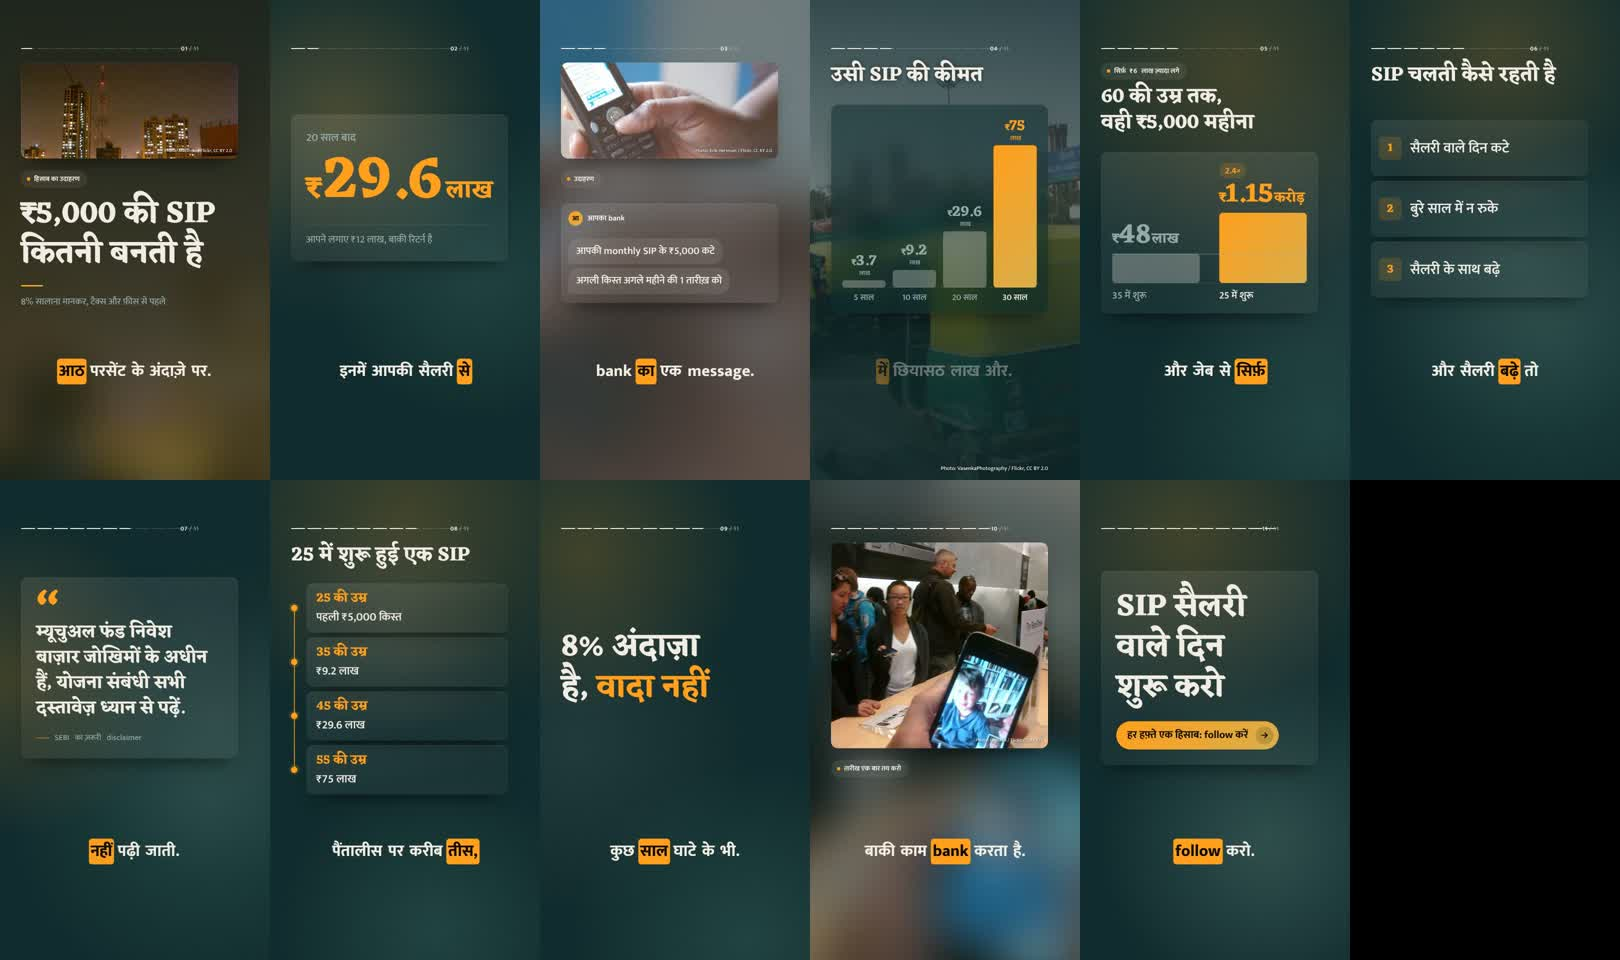
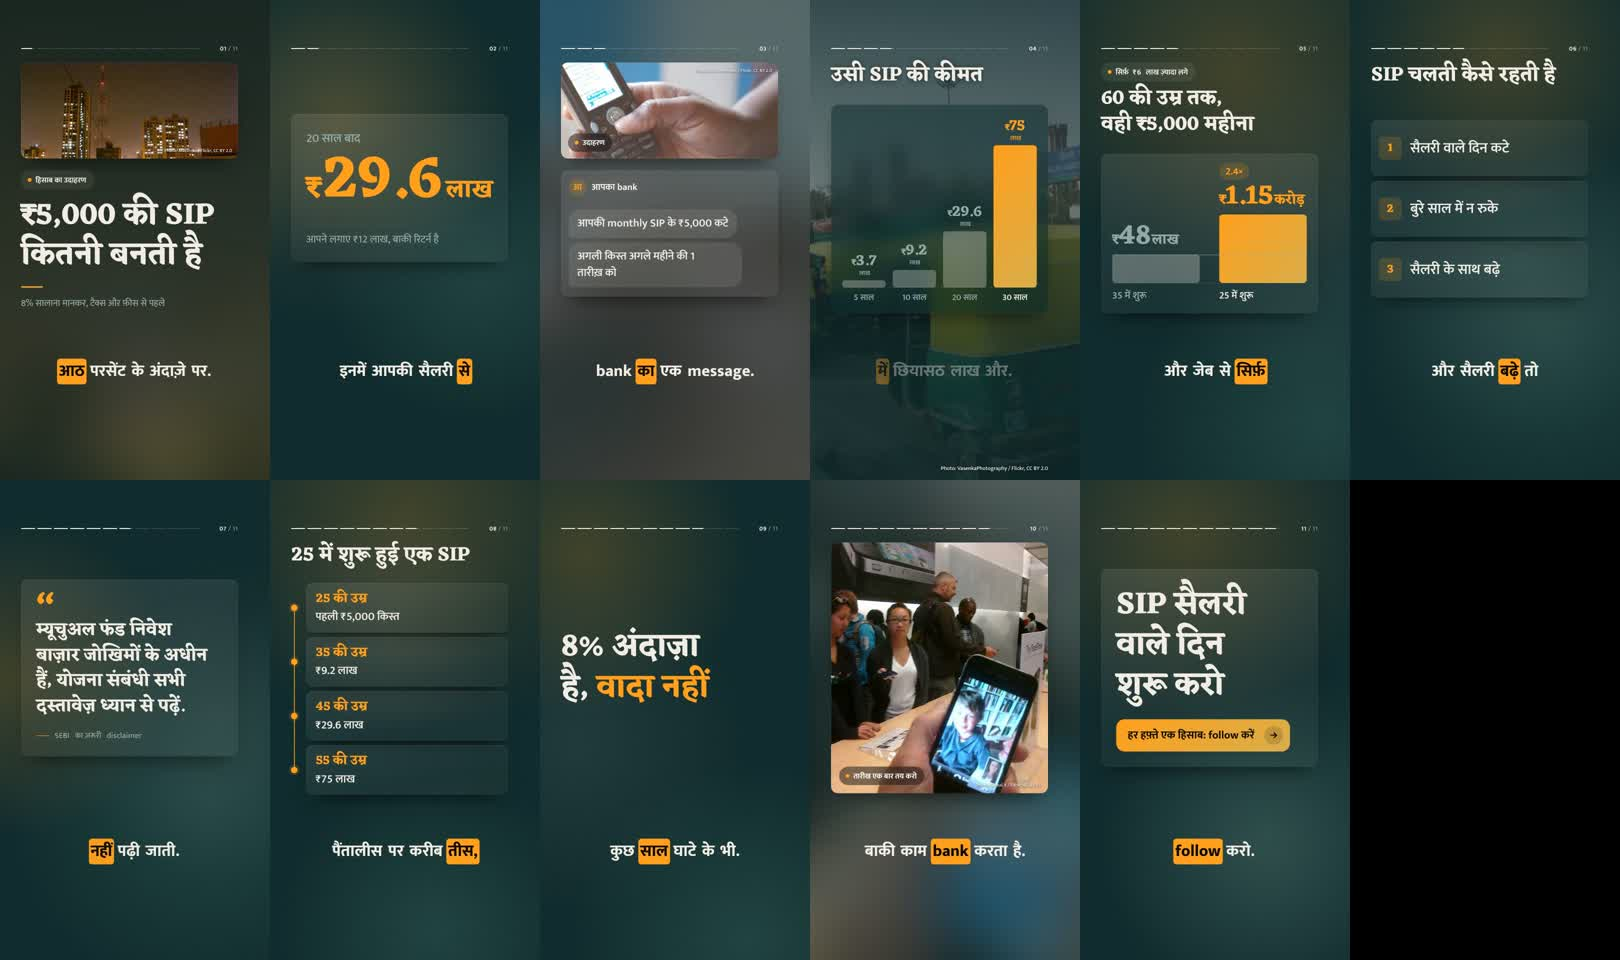
Tighten the glass scenes
- the folio sits past the end of the progress line instead of over it
- photo labels sit on the photo card's corner, so the scene below keeps its
  size; the image scene's photo takes the whole space
- larger text inside cards (labels, message thread, timeline, badges)
- Frost uses Geist for labels and captions too, so one typeface carries it
- the follow button keeps a rounded rectangle when it wraps, not a pill
- message bubbles wrap without orphans; quote mark set smaller
- softer, darker ambient behind photo cards

Claude-Session: https://claude.ai/code/session_015iGsKUNTqUMX6rbhQzKvLn

diff --git a/skills/vid-studio/assets/scenes/engine.css b/skills/vid-studio/assets/scenes/engine.css
@@ -357,11 +357,16 @@
 /* labels become small pills with a dot */
 .vid-stage.cards .chip, .vid-stage.cards .kicker {
   padding: .52em 1em .52em .85em; border-radius: 999px; background: var(--chip-fill); border: 1.5px solid var(--card-border);
-  font-size: calc(var(--kw, 1) * var(--ts) * 27px); letter-spacing: .07em; color: var(--text);
+  font-size: calc(var(--kw, 1) * var(--ts) * 30px); letter-spacing: .06em; color: var(--text);
 }
 .vid-stage.cards .chip::before, .vid-stage.cards .kicker::before { display: block; width: .5em; height: .5em; border-radius: 50%; background: var(--accent); }
-.vid-stage.cards .scene.has-hero .chip { padding: .52em 1em .52em .85em; background: rgba(12,12,14,.42); color: #fff; border-color: rgba(255,255,255,.16); }
+.vid-stage.cards .scene.has-hero .chip, .vid-stage.cards .scene.label-on-photo .chip { padding: .52em 1em .52em .85em; background: rgba(12,12,14,.5); color: #fff; border-color: rgba(255,255,255,.16);
+  -webkit-backdrop-filter: blur(24px); backdrop-filter: blur(24px); text-shadow: none; }
 .vid-stage.cards .scene.has-hero .chip::before { display: block; }
+.vid-stage.cards .scene.label-on-photo .head { padding-bottom: 0; }
+.vid-stage.cards .photo-top .photo-label { position: absolute; left: 28px; bottom: 26px; max-width: calc(100% - 56px); padding: .52em 1em .52em .85em;
+  background: rgba(12,12,14,.5); color: #fff; border-color: rgba(255,255,255,.16); -webkit-backdrop-filter: blur(24px); backdrop-filter: blur(24px); text-shadow: none; }
+.vid-stage.cards .photo-top .photo-label ~ .pt-credit, .vid-stage.cards .photo-top:has(.photo-label) .pt-credit { top: 22px; bottom: auto; }
 .vid-stage.cards .rule { width: calc(var(--ts) * 88px); height: calc(var(--ts) * 6px); border-radius: 99px; background: var(--grad); }
 
 /* progress, logo */
@@ -371,10 +376,10 @@
 
 /* stat: the number on a card */
 .vid-stage.cards .stat-card { padding: calc(var(--k) * 60px) calc(var(--k) * 60px) calc(var(--k) * 56px); }
-.vid-stage.cards .scene-stat .stat-label { font-size: calc(var(--k) * var(--ts) * 44px); color: var(--muted); margin-bottom: calc(var(--k) * 12px); }
+.vid-stage.cards .scene-stat .stat-label { font-size: calc(var(--k) * var(--ts) * 48px); color: var(--muted); margin-bottom: calc(var(--k) * 8px); }
 .vid-stage.cards .scene-stat .value { font-size: calc(var(--k) * var(--kw, 1) * var(--ts) * 250px); }
 .vid-stage.cards .scene-stat .stat-line { height: 1.5px; margin: calc(var(--k) * 40px) 0 calc(var(--k) * 30px); }
-.vid-stage.cards .scene-stat .context { font-size: calc(var(--k) * var(--ts) * 40px); }
+.vid-stage.cards .scene-stat .context { font-size: calc(var(--k) * var(--ts) * 42px); }
 
 /* charts sit on one card */
 .vid-stage .chart-card { flex: 1; min-height: 0; display: flex; flex-direction: column; }
@@ -390,12 +395,12 @@
 /* compare: two numbers on one card; two phrases on two cards with an arrow from the first to the second */
 .vid-stage.cards .scene-compare .col-bar { border-radius: calc(var(--radius) * .5); }
 .vid-stage.cards .scene-compare .col.subject .col-bar { background: var(--grad); }
-.vid-stage.cards .scene-compare .delta { padding: .34em .64em; border-radius: 999px; background: var(--accent-soft); color: var(--accent); font-size: calc(var(--k) * var(--ts) * 36px); }
+.vid-stage.cards .scene-compare .delta { padding: .34em .64em; border-radius: 999px; background: var(--accent-soft); color: var(--accent); font-size: calc(var(--k) * var(--ts) * 40px); }
 .vid-stage.cards .scene-compare .cols-text { gap: calc(var(--k) * 22px); max-height: calc(var(--k) * 900px); }
 .vid-stage.cards .scene-compare .panel { border: 1.5px solid var(--card-border); padding: calc(var(--k) * 48px) calc(var(--k) * 56px); gap: calc(var(--k) * 16px); }
 .vid-stage.cards .scene-compare .panel.subject { border-color: var(--accent-line); }
 .vid-stage.cards .scene-compare .panel.subject::before { display: none; }
-.vid-stage.cards .scene-compare .panel .col-label { font-size: calc(var(--k) * var(--ts) * 26px); }
+.vid-stage.cards .scene-compare .panel .col-label { font-size: calc(var(--k) * var(--ts) * 30px); }
 .vid-stage .vs-row { display: none; }
 .vid-stage.cards .vs-row { position: relative; z-index: 2; height: 0; display: flex; align-items: center; justify-content: center; margin: calc(var(--k) * -11px) 0; }
 .vid-stage.cards .vs { display: grid; place-items: center; width: calc(var(--k) * 76px); height: calc(var(--k) * 76px); border-radius: 50%;
@@ -413,7 +418,7 @@
 /* quote: the mark set large above the words */
 .vid-stage.cards .scene-quote .quote { padding: calc(var(--k) * 56px) calc(var(--k) * 60px) calc(var(--k) * 60px); }
 .vid-stage.cards .scene-quote .quote-bar { display: none; }
-.vid-stage.cards .scene-quote .qmark { display: block; height: .42em; margin-bottom: calc(var(--k) * 30px); font-size: calc(var(--k) * var(--ts) * 200px); line-height: .9; color: var(--accent); letter-spacing: 0; }
+.vid-stage.cards .scene-quote .qmark { display: block; height: .42em; margin-bottom: calc(var(--k) * 30px); font-size: calc(var(--k) * var(--ts) * 160px); line-height: .9; color: var(--accent); letter-spacing: 0; }
 .vid-stage.cards .scene-quote .quote-text { font-size: calc(var(--k) * var(--kw, 1) * var(--ts) * 70px); }
 .vid-stage.cards .scene-quote .source { display: flex; align-items: center; gap: .7em; padding: 0; margin-top: calc(var(--k) * 44px); font-size: calc(var(--k) * var(--ts) * 32px); }
 .vid-stage.cards .scene-quote .source::before { content: ""; flex: none; width: 1.6em; height: 2px; border-radius: 2px; background: var(--accent); }
@@ -421,11 +426,11 @@
 /* timeline: a rail of dots, each date on its own card */
 .vid-stage.cards .scene-timeline .tl { max-height: calc(var(--n) * var(--k) * 250px); }
 .vid-stage.cards .scene-timeline .tl-item { gap: calc(var(--k) * 36px); padding: calc(var(--k) * 10px) 0; }
-.vid-stage.cards .scene-timeline .tl-text { flex: 1; padding: calc(var(--k) * 26px) calc(var(--k) * 38px); }
+.vid-stage.cards .scene-timeline .tl-text { flex: 1; padding: calc(var(--k) * 30px) calc(var(--k) * 40px); }
 .vid-stage.cards .scene-timeline .tl-dot { width: 26px; height: 26px; box-shadow: 0 0 0 8px var(--accent-soft); }
 .vid-stage.cards .scene-timeline .tl-line { left: 11.5px; width: 3px; }
-.vid-stage.cards .scene-timeline .tl-date { font-size: calc(var(--k) * var(--ts) * 50px); margin-bottom: calc(var(--k) * 10px); }
-.vid-stage.cards .scene-timeline .tl-label { font-size: calc(var(--k) * var(--kw, 1) * var(--ts) * 46px); }
+.vid-stage.cards .scene-timeline .tl-date { font-size: calc(var(--k) * var(--ts) * 54px); margin-bottom: calc(var(--k) * 8px); }
+.vid-stage.cards .scene-timeline .tl-label { font-size: calc(var(--k) * var(--kw, 1) * var(--ts) * 48px); color: var(--text); opacity: .82; }
 .vid-stage.cards.ar-landscape .scene-timeline .tl-text { width: 100%; }
 .vid-stage.cards.ar-landscape .scene-timeline .tl-item { padding: 0; }
 
@@ -433,11 +438,13 @@
 .vid-stage.cards .scene-image .img-card { border-style: dashed; }
 
 /* message: a chat thread on a card, with the sender's initial */
-.vid-stage.cards .msg { padding: calc(var(--k) * 36px) calc(var(--k) * 34px) calc(var(--k) * 40px); gap: calc(var(--k) * 18px); }
-.vid-stage.cards .msg-who { display: flex; align-items: center; gap: .6em; font-size: calc(var(--k) * var(--ts) * 36px); letter-spacing: 0; text-transform: none; color: var(--text);
-  padding: 0 0 calc(var(--k) * 28px); margin: 0 calc(var(--k) * -34px) calc(var(--k) * 12px); padding-left: calc(var(--k) * 34px); padding-right: calc(var(--k) * 34px); border-bottom: 1.5px solid var(--line); }
+.vid-stage.cards .msg { padding: calc(var(--k) * 34px) calc(var(--k) * 34px) calc(var(--k) * 40px); gap: calc(var(--k) * 20px); }
+.vid-stage.cards .msg-who { display: flex; align-items: center; gap: .55em; font-size: calc(var(--k) * var(--ts) * 42px); letter-spacing: 0; text-transform: none; color: var(--text);
+  padding: 0 calc(var(--k) * 34px) calc(var(--k) * 30px); margin: 0 calc(var(--k) * -34px) calc(var(--k) * 10px); border-bottom: 1.5px solid var(--line); }
+.vid-stage.cards .bubble { font-size: calc(var(--k) * var(--ts) * 50px); }
+.vid-stage .bubble-text { text-wrap: pretty; }
 .vid-stage .msg-who .avatar { display: none; }
-.vid-stage.cards .msg-who .avatar { display: grid; place-items: center; flex: none; width: 2.1em; height: 2.1em; border-radius: 50%; background: var(--grad); color: var(--on-accent); font-size: .9em; font-weight: 800; }
+.vid-stage.cards .msg-who .avatar { display: grid; place-items: center; flex: none; width: 1.9em; height: 1.9em; border-radius: 50%; background: var(--accent-soft); color: var(--accent); font-size: 1em; font-weight: 700; }
 .vid-stage.cards .bubble { border-radius: 1.05em 1.05em 1.05em .32em; }
 .vid-stage.cards .bubble.out { border-radius: 1.05em 1.05em .32em 1.05em; background: var(--grad); }
 
@@ -445,7 +452,7 @@
 .vid-stage.cards .end-card { padding: calc(var(--k) * 64px) calc(var(--k) * 60px) calc(var(--k) * 60px); }
 .vid-stage.cards .scene-end .end-title { margin-bottom: calc(var(--k) * 52px); }
 .vid-stage .cta .cta-ic { display: inline-flex; }
-.vid-stage.cards .scene-end .cta { border-radius: 999px; padding: .5em .5em .5em 1.05em; gap: .7em; background: var(--grad); }
+.vid-stage.cards .scene-end .cta { border-radius: min(999px, calc(var(--radius) * 1.2)); padding: .62em .62em .62em 1.05em; gap: .9em; background: var(--grad); font-size: calc(var(--k) * var(--kw, 1) * var(--ts) * 44px); }
 .vid-stage.cards .scene-end .cta .cta-ic { flex: none; width: 1.7em; height: 1.7em; border-radius: 50%; align-items: center; justify-content: center; background: rgba(0,0,0,.12); }
 .vid-stage.cards.is-dark .scene-end .cta .cta-ic { background: rgba(0,0,0,.14); }
 

diff --git a/skills/vid-studio/assets/scenes/engine.js b/skills/vid-studio/assets/scenes/engine.js
@@ -1007,6 +1007,23 @@
         x.column = { left: tl0, width: c.left + c.width - tl0 };
         return;
       }
+      if (x.sc.type === 'image') {
+        // the photo is the scene: it takes the whole space, and the label sits on it, bottom left
+        x.photo.el.style.cssText += ';left:' + c.left + 'px;top:' + c.top + 'px;width:' + c.width + 'px;height:' + c.height + 'px';
+        x.el.classList.add('label-on-photo');
+        var hd = head ? head.offsetHeight : 0, inset = 32;
+        frame.style.left = (c.left + inset) + 'px'; frame.style.width = (c.width - 2 * inset) + 'px';
+        frame.style.top = (c.top + c.height - hd - inset) + 'px'; frame.style.height = (hd + 1) + 'px';
+        if (x.meta) { var cr0 = q(x.meta, '.credit'); if (cr0) cr0.parentNode.removeChild(cr0); }
+        return;
+      }
+      // the label moves onto the photo's bottom-left corner, so the scene below keeps its full size
+      var chip0 = head && q(head, '.chip');
+      if (chip0) {
+        chip0.classList.add('photo-label');
+        x.photo.el.appendChild(chip0);
+        if (!head.children.length) { head.parentNode.removeChild(head); head = null; }
+      }
       x.el.style.setProperty('--k', '1');
       fitWidths(x.el);
       var need0 = (head ? head.offsetHeight : 0) + (x.sc.type === 'image' ? 0 : st.scrollHeight);
@@ -1043,7 +1060,7 @@
     try {
       var g = cv.getContext('2d');
       var iw = img.naturalWidth, ih = img.naturalHeight, s = Math.max(cw / iw, ch / ih) * 1.15;
-      g.filter = 'blur(' + Math.round(Math.min(cw, ch) / 14) + 'px) saturate(1.25)';
+      g.filter = 'blur(' + Math.round(Math.min(cw, ch) / 10) + 'px) saturate(1.1)';
       g.drawImage(img, (cw - iw * s) / 2, (ch - ih * s) / 2, iw * s, ih * s);
     } catch (e) { return null; }
     wrap.appendChild(cv);
@@ -1407,7 +1424,7 @@
         '--accent-soft': rgba(C.accent, dark ? 0.16 : 0.14),
         '--accent-line': rgba(C.accent, 0.55),
         '--aura-1': rgba(C.accent, dark ? 0.2 : 0.22), '--aura-2': rgba(C.accent2, dark ? 0.14 : 0.16), '--aura-3': rgba(C.text, dark ? 0.07 : 0.05),
-        '--veil': rgba(C.background, dark ? 0.5 : 0.72),
+        '--veil': rgba(C.background, dark ? 0.62 : 0.74),
         '--scrim-soft': 'linear-gradient(180deg, ' + rgba(C.background, 0.8) + ', ' + rgba(C.background, 0.5) + ' 42%, ' + rgba(C.background, 0.86) + ' 82%)',
         '--cl': L.content.left + 'px', '--ct': L.content.top + 'px', '--cw': L.content.width + 'px', '--ch': L.content.height + 'px'
       };
@@ -1525,7 +1542,7 @@
         // a folio, like a page number: "03 / 08", at the end of the line
         var pad2 = function (n) { return (n < 10 ? '0' : '') + n; };
         var folio = el('div', 'folio tnum');
-        folio.style.cssText = 'top:' + (L.progress.top + L.progress.height / 2) + 'px;right:' + (W - L.progress.left - L.progress.width) + 'px';
+        folio.style.cssText = 'top:' + (L.progress.top + L.progress.height / 2) + 'px;right:' + (W - L.content.left - L.content.width) + 'px';
         var folioNums = scenes.map(function (s, i) {
           var f = el('span', 'folio-n', '<b>' + pad2(i + 1) + '</b> / ' + pad2(scenes.length));
           folio.appendChild(f); return f;

diff --git a/docs/glass-cards/README.md b/docs/glass-cards/README.md
@@ -12,7 +12,7 @@ After, with glass cards and the aura background:
 
 ![After: glass cards](assets/after-night.jpg)
 
-Frost, the new house look (ink blue, peach and lilac, Geist):
+Frost, the new house look (ink blue, peach and lilac, Geist for headlines and labels alike):
 
 ![Frost](assets/after-frost.jpg)
 
@@ -24,7 +24,7 @@ Frost, the new house look (ink blue, peach and lilac, Geist):
 
 **Aura.** A new background style: three soft fields of light in `accent`, `accent2` and the text colour. They glide to new places at each scene change and hold still while a scene plays, so the glass always has something behind it.
 
-**Photos.** A photo above a scene is now a rounded photo card, in front of the same photo blurred and veiled, so the whole frame takes its colours from the picture. The blur is drawn once into a small canvas, so it costs nothing per frame. Full-screen photos behind charts are veiled from the top and bottom and blurred where the chart's card covers them, with the card tinted from the background colour so muted values stay readable.
+**Photos.** A photo above a scene is now a rounded photo card, with the scene's label set on its bottom-left corner so the content below keeps its full size. The image scene's photo takes the whole space. The card sits in front of the same photo blurred and veiled, so the whole frame takes its colours from the picture. The blur is drawn once into a small canvas, so it costs nothing per frame. Full-screen photos behind charts are veiled from the top and bottom and blurred where the chart's card covers them, with the card tinted from the background colour so muted values stay readable.
 
 ![Glass over photos](assets/glass-over-photos.jpg)
 
